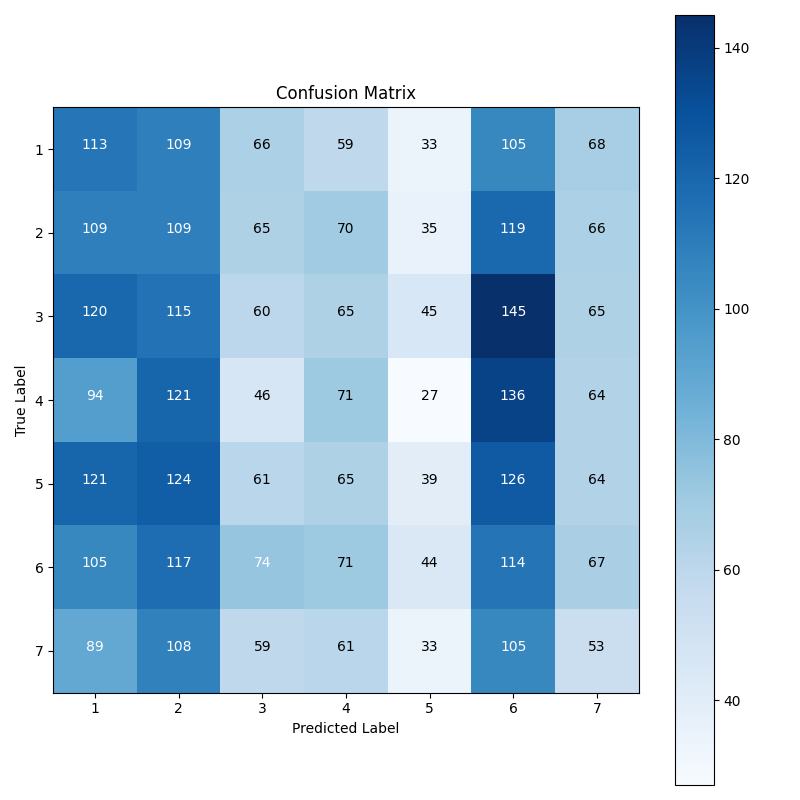
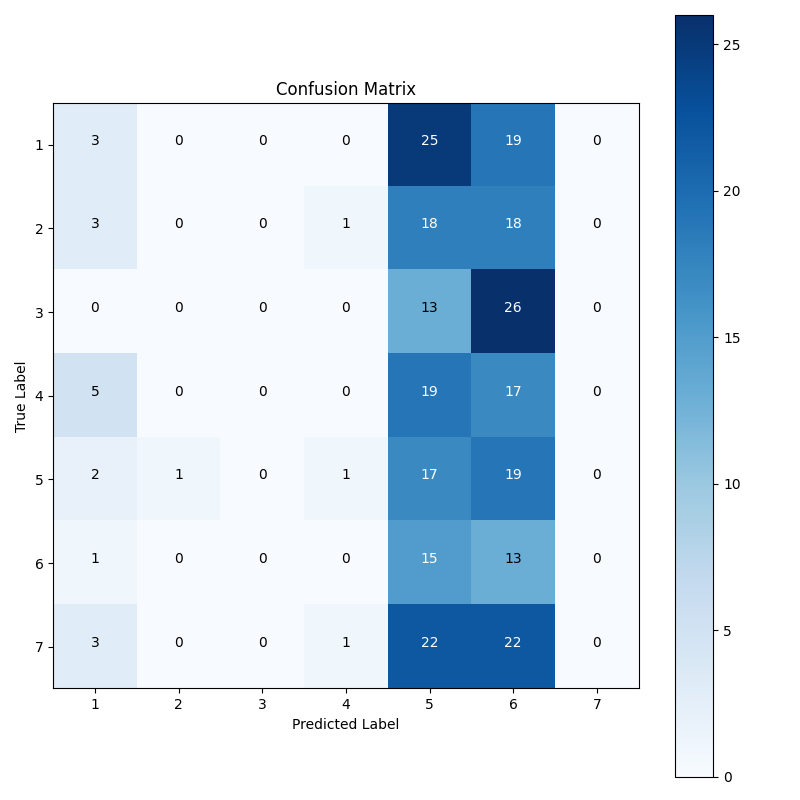
Fixed training/testing image selection

diff --git a/cnn_model.py b/cnn_model.py
@@ -13,29 +13,56 @@ from PIL import Image
 from sklearn.metrics import confusion_matrix
 
 root_dir = 'dataset'
-selected_image_paths = []
+selected_image_paths_train = []
+selected_image_paths_test = []
 
-def collect_image_paths(directory):
+def collect_image_paths(directory, excluded_folder):
+    num_images_used_train = 0
+    num_images_used_test = 0
     for item in os.listdir(directory):
         item_path = os.path.join(directory, item)
         if os.path.isdir(item_path):
-            collect_image_paths(item_path)
+            if os.path.basename(item_path).lower() != excluded_folder.lower():
+                used_train, used_test = collect_image_paths(item_path, excluded_folder)
+                num_images_used_train += used_train
+                num_images_used_test += used_test
+            else:
+                _, used_test = collect_image_paths(item_path, excluded_folder)
+                num_images_used_test += used_test
         else:
             if item_path.lower().endswith(('.jpg', '.jpeg', '.png')):
-                selected_image_paths.append(item_path)
+                if excluded_folder not in os.path.dirname(item_path):
+                    selected_image_paths_train.append(item_path)
+                    num_images_used_train += 1
+                else:
+                    selected_image_paths_test.append(item_path)
+                    num_images_used_test += 1
+    return num_images_used_train, num_images_used_test
 
-collect_image_paths(root_dir)
-num_images_to_select = 4000
-random_image_paths = random.sample(selected_image_paths, num_images_to_select)
+excluded_folder = "original_only"
+num_images_used_train, num_images_used_test = collect_image_paths(root_dir, excluded_folder)
 
-# Grainy and small, but functional
-random_images = []
-for image_path in random_image_paths:
+print(f"Total training images used: {num_images_used_train}")
+print(f"Total testing images used: {num_images_used_test}")
+
+train_images = []
+for image_path in selected_image_paths_train:
     image = Image.open(image_path)
     image = image.resize((32, 32))
     image = image.convert('RGB')
     image = np.array(image) / 255.0
-    random_images.append(image)
+    train_images.append(image)
+
+test_images = []
+for image_path in selected_image_paths_test:
+    image = Image.open(image_path)
+    image = image.resize((32, 32))
+    image = image.convert('RGB')
+    image = np.array(image) / 255.0
+    test_images.append(image)
+
+train_images = np.array(train_images)
+test_images = np.array(test_images)
 
 image_height = 32
 image_width = 32
@@ -43,10 +70,9 @@ num_channels = 3
 num_classes = 7
 num_epochs = 10
 batch_size = 32
-train_images = np.array(random_images)
-train_labels = np.random.randint(0, num_classes, size=num_images_to_select)
-test_images = np.array(random_images)
-test_labels = np.random.randint(0, num_classes, size=num_images_to_select)
+
+train_labels = np.random.randint(1, num_classes + 1, size=num_images_used_train) - 1
+test_labels = np.random.randint(1, num_classes + 1, size=num_images_used_test) - 1
 
 base_model = EfficientNetB0(weights='imagenet', include_top=False, input_shape=(image_height, image_width, num_channels))
 model = Sequential()
@@ -68,8 +94,6 @@ predicted_labels = np.argmax(predictions, axis=1)
 
 # Plot confusion matrix
 cm = confusion_matrix(test_labels, predicted_labels)
-
-# Plot confusion matrix
 plt.figure(figsize=(8, 8))
 plt.imshow(cm, interpolation='nearest', cmap='Blues')
 plt.title('Confusion Matrix')

diff --git a/README.md b/README.md
@@ -9,3 +9,35 @@ PLEASE READ:
     If you do not want this (for dev purposes), comment out the first line in cnn_model.py.
     If you do unpack the images, make sure not to commit the dataset folder, because it is way too large for a git repo.
     After the images are preprocessed, you won't need to wait for them next time.
+
+TODO:
+Next models to try: EfficientNetB7 ResNet50 ResNet101 Xception InceptionV3 MobilenetV2 MobileNet
+Merge 5, 5+ labels and update confusin matrix
+
+Most recent evaluation (pretty bad):
+    Total training images used: 7100
+    Total testing images used: 284
+    Epoch 1/10
+    222/222 [==============================] - 57s 142ms/step - loss: 2.1286 - accuracy: 0.1408
+    Epoch 2/10
+    222/222 [==============================] - 32s 145ms/step - loss: 1.9821 - accuracy: 0.1514
+    Epoch 3/10
+    222/222 [==============================] - 32s 143ms/step - loss: 1.9519 - accuracy: 0.1390
+    Epoch 4/10
+    222/222 [==============================] - 32s 146ms/step - loss: 1.9472 - accuracy: 0.1501
+    Epoch 5/10
+    222/222 [==============================] - 32s 144ms/step - loss: 1.9530 - accuracy: 0.1496
+    Epoch 6/10
+    222/222 [==============================] - 32s 143ms/step - loss: 1.9467 - accuracy: 0.1513
+    Epoch 7/10
+    222/222 [==============================] - 32s 143ms/step - loss: 1.9474 - accuracy: 0.1480
+    Epoch 8/10
+    222/222 [==============================] - 32s 143ms/step - loss: 1.9476 - accuracy: 0.1527
+    Epoch 9/10
+    222/222 [==============================] - 31s 142ms/step - loss: 1.9461 - accuracy: 0.1504
+    Epoch 10/10
+    222/222 [==============================] - 32s 143ms/step - loss: 1.9446 - accuracy: 0.1518
+    9/9 [==============================] - 2s 34ms/step - loss: 1.9519 - accuracy: 0.1162
+    Test Loss: 1.9519131183624268
+    Test Accuracy: 0.11619718372821808
+    9/9 [==============================] - 2s 34ms/step

diff --git a/Timelog.md b/Timelog.md
@@ -27,5 +27,11 @@
 | 2023/07/05 | 00:00 | 04:00 |         |         |      |        |       | 4      | Random search for preprocessed images to train       |
 | 2023/07/05 | 13:00 | 16:00 |         |         |      |        |       | 3      | Preprocessed image testing with 1st pretrained model |
 | 2023/07/05 | 16:30 | 17:30 | 1       | 1       | 1    | 1      | 1     | 1      | FYDP class 4                                         |
+| 2023/07/13 | 19:00 | 24:00 | 5       | 5       | 5    | 5      | 5     | 5      | Group meeting                                        |
 | 2023/07/06 | 14:00 | 15:00 | 1       | 1       | 1    | 1      | 1     | 1      | Consultant meeting                                   |
 | 2023/07/06 | 15:00 | 17:00 |         |         |      |        |       | 2      | Added confusion matrix                               |
+| 2023/07/11 | 19:00 | 24:00 |         |         |      |        |       | 5      | Debugging accuracy and loss                          |
+| 2023/07/13 | 16:30 | 17:30 | 1       | 1       | 1    | 1      | 1     | 1      | FYDP class 5                                         |
+| 2023/07/13 | 14:00 | 15:00 | 1       | 1       | 1    | 1      | 1     | 1      | Consultant meeting                                   |
+| 2023/07/13 | 15:00 | 16:00 | 1       | 1       | 1    | 1      | 1     | 1      | Group meeting                                        |
+| 2023/07/13 | 16:30 | 19:30 |         |         |      |        |       | 3      | Fixed training and testing image selection           |
